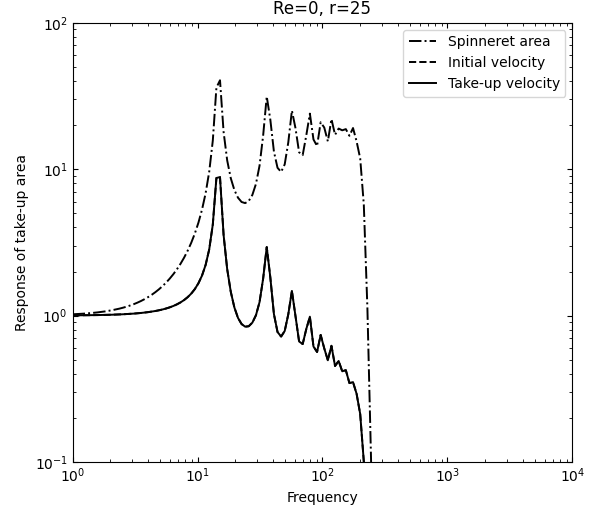
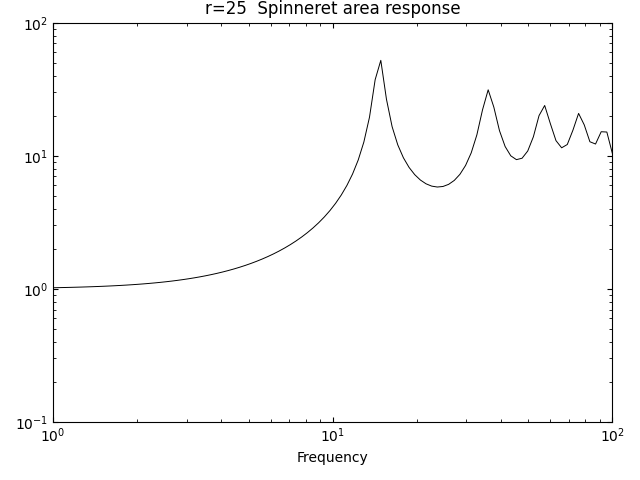
마지막에 후진차분으로 수정

diff --git a/Report 6/01.py b/Report 6/01.py
@@ -78,15 +78,8 @@ def finite_difference_matrices(
         D1[i, i - 1] = -0.5 / dz
         D1[i, i + 1] = 0.5 / dz
 
-    # z = 0, one-sided
-    D1[0, 0] = -3.0 / (2.0 * dz)
-    D1[0, 1] = 4.0 / (2.0 * dz)
-    D1[0, 2] = -1.0 / (2.0 * dz)
-
-    # z = 1, one-sided
-    D1[-1, -3] = 1.0 / (2.0 * dz)
-    D1[-1, -2] = -4.0 / (2.0 * dz)
-    D1[-1, -1] = 3.0 / (2.0 * dz)
+    D1[-1, -2] = -1.0 / dz
+    D1[-1, -1] = 1.0 / dz
 
     # ------------------------------------------------------------
     # Second derivative
@@ -96,17 +89,9 @@ def finite_difference_matrices(
         D2[i, i] = -2.0 / dz**2
         D2[i, i + 1] = 1.0 / dz**2
 
-    # z = 0, one-sided
-    D2[0, 0] = 2.0 / dz**2
-    D2[0, 1] = -5.0 / dz**2
-    D2[0, 2] = 4.0 / dz**2
-    D2[0, 3] = -1.0 / dz**2
-
-    # z = 1, one-sided
-    D2[-1, -4] = -1.0 / dz**2
-    D2[-1, -3] = 4.0 / dz**2
-    D2[-1, -2] = -5.0 / dz**2
-    D2[-1, -1] = 2.0 / dz**2
+    D2[-1, -3] = 1.0 / dz**2
+    D2[-1, -2] = -2.0 / dz**2
+    D2[-1, -1] = 1.0 / dz**2
 
     return z, D1, D2
 